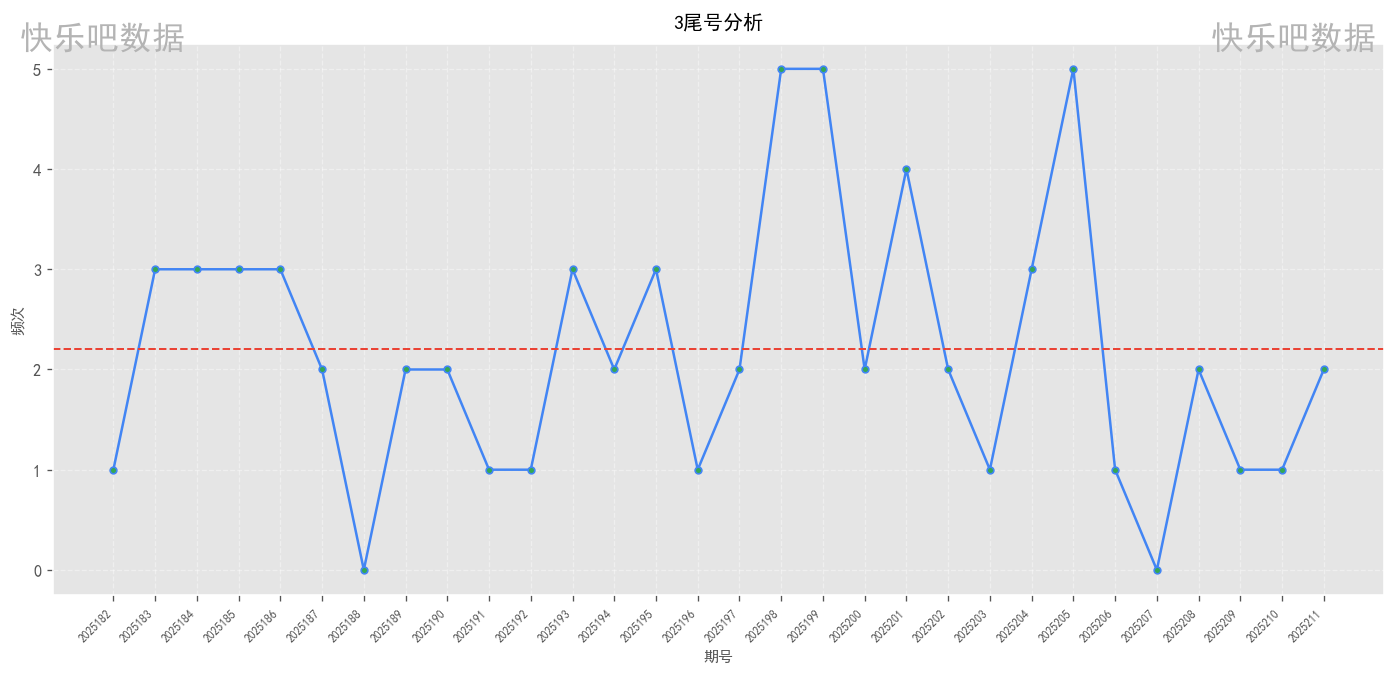
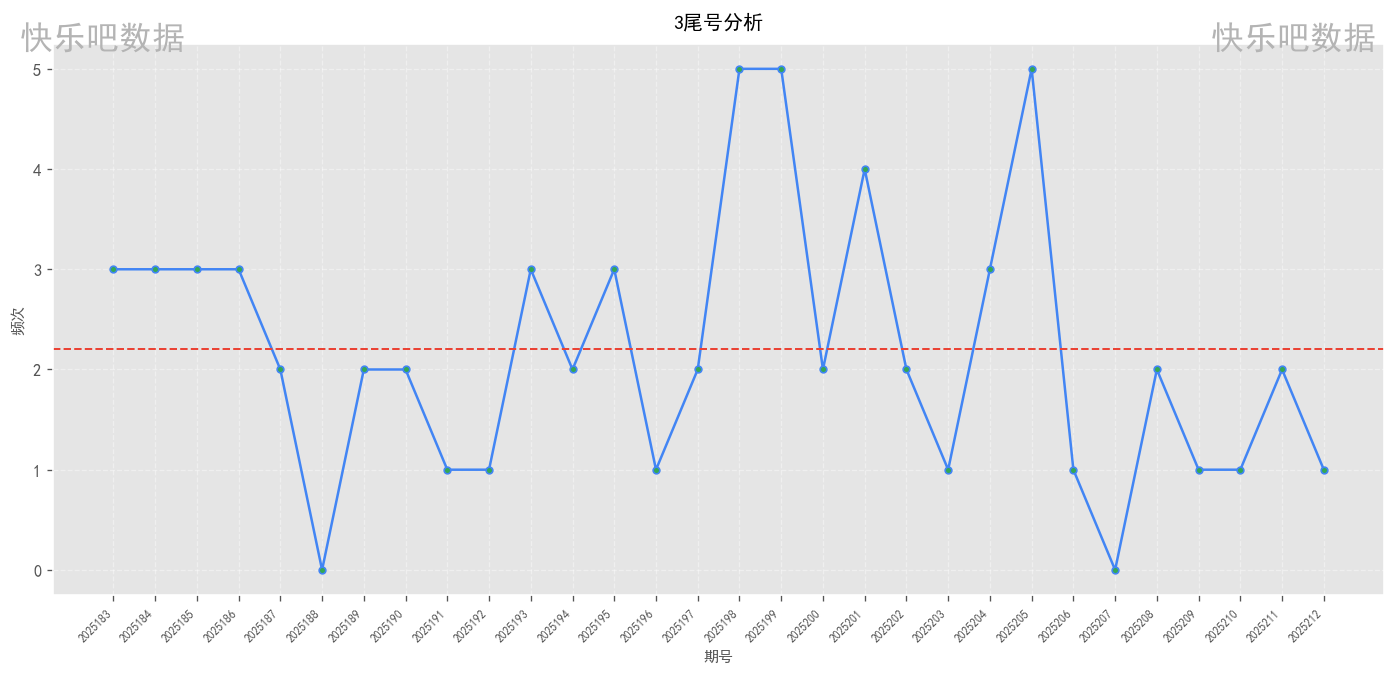
自动提交报告 20250810_2251

diff --git a/快乐8尾号分析项目/数据报告/20250810/report.html b/快乐8尾号分析项目/数据报告/20250810/report.html
@@ -440,7 +440,7 @@
                     <div class="label">尾号区间</div>
                 </div>
                 <div class="overview-card">
-                    <div class="value">2025211</div>
+                    <div class="value">2025212</div>
                     <div class="label">最新期号</div>
                 </div>
                 <div class="overview-card">
@@ -464,11 +464,11 @@
             <div class="stats-summary">
                 <div class="stat-item">
                     <span class="stat-label">历史平均</span>
-                    <span class="stat-value">2.23</span>
+                    <span class="stat-value">2.17</span>
                 </div>
                 <div class="stat-item">
                     <span class="stat-label">近期平均</span>
-                    <span class="stat-value">2.40</span>
+                    <span class="stat-value">2.20</span>
                 </div>
                 <div class="stat-item">
                     <span class="stat-label">最高频次</span>
@@ -486,11 +486,11 @@
             <div class="stats-summary">
                 <div class="stat-item">
                     <span class="stat-label">历史平均</span>
-                    <span class="stat-value">2.07</span>
+                    <span class="stat-value">2.00</span>
                 </div>
                 <div class="stat-item">
                     <span class="stat-label">近期平均</span>
-                    <span class="stat-value">1.80</span>
+                    <span class="stat-value">1.60</span>
                 </div>
                 <div class="stat-item">
                     <span class="stat-label">最高频次</span>
@@ -508,11 +508,11 @@
             <div class="stats-summary">
                 <div class="stat-item">
                     <span class="stat-label">历史平均</span>
-                    <span class="stat-value">1.87</span>
+                    <span class="stat-value">2.00</span>
                 </div>
                 <div class="stat-item">
                     <span class="stat-label">近期平均</span>
-                    <span class="stat-value">1.80</span>
+                    <span class="stat-value">2.00</span>
                 </div>
                 <div class="stat-item">
                     <span class="stat-label">最高频次</span>
@@ -534,7 +534,7 @@
                 </div>
                 <div class="stat-item">
                     <span class="stat-label">近期平均</span>
-                    <span class="stat-value">1.20</span>
+                    <span class="stat-value">1.40</span>
                 </div>
                 <div class="stat-item">
                     <span class="stat-label">最高频次</span>
@@ -552,11 +552,11 @@
             <div class="stats-summary">
                 <div class="stat-item">
                     <span class="stat-label">历史平均</span>
-                    <span class="stat-value">1.87</span>
+                    <span class="stat-value">1.80</span>
                 </div>
                 <div class="stat-item">
                     <span class="stat-label">近期平均</span>
-                    <span class="stat-value">2.40</span>
+                    <span class="stat-value">1.80</span>
                 </div>
                 <div class="stat-item">
                     <span class="stat-label">最高频次</span>
@@ -578,7 +578,7 @@
                 </div>
                 <div class="stat-item">
                     <span class="stat-label">近期平均</span>
-                    <span class="stat-value">2.00</span>
+                    <span class="stat-value">2.20</span>
                 </div>
                 <div class="stat-item">
                     <span class="stat-label">最高频次</span>
@@ -596,11 +596,11 @@
             <div class="stats-summary">
                 <div class="stat-item">
                     <span class="stat-label">历史平均</span>
-                    <span class="stat-value">1.73</span>
+                    <span class="stat-value">1.77</span>
                 </div>
                 <div class="stat-item">
                     <span class="stat-label">近期平均</span>
-                    <span class="stat-value">1.00</span>
+                    <span class="stat-value">1.20</span>
                 </div>
                 <div class="stat-item">
                     <span class="stat-label">最高频次</span>
@@ -618,7 +618,7 @@
             <div class="stats-summary">
                 <div class="stat-item">
                     <span class="stat-label">历史平均</span>
-                    <span class="stat-value">1.90</span>
+                    <span class="stat-value">1.87</span>
                 </div>
                 <div class="stat-item">
                     <span class="stat-label">近期平均</span>
@@ -640,7 +640,7 @@
             <div class="stats-summary">
                 <div class="stat-item">
                     <span class="stat-label">历史平均</span>
-                    <span class="stat-value">2.23</span>
+                    <span class="stat-value">2.30</span>
                 </div>
                 <div class="stat-item">
                     <span class="stat-label">近期平均</span>
@@ -666,7 +666,7 @@
                 </div>
                 <div class="stat-item">
                     <span class="stat-label">近期平均</span>
-                    <span class="stat-value">2.00</span>
+                    <span class="stat-value">2.20</span>
                 </div>
                 <div class="stat-item">
                     <span class="stat-label">最高频次</span>
@@ -690,7 +690,7 @@
         <div class="disclaimer">
             <div class="disclaimer-title"><i class="fas fa-exclamation-circle"></i> 法律声明</div>
             <p>本分析报告基于中国福利彩票官网公开数据制作，仅供历史数据分析与参考，严禁用于赌博或任何违法违规用途。</p>
-            <p>根据中国法律，禁止向未成年人传播彩票相关信息。数据统计周期: 2025182期-2025211期 | 生成时间: 2025-08-10 00:28</p>
+            <p>根据中国法律，禁止向未成年人传播彩票相关信息。数据统计周期: 2025183期-2025212期 | 生成时间: 2025-08-10 22:51</p>
         </div>
 
         <!-- 操作按钮 -->
